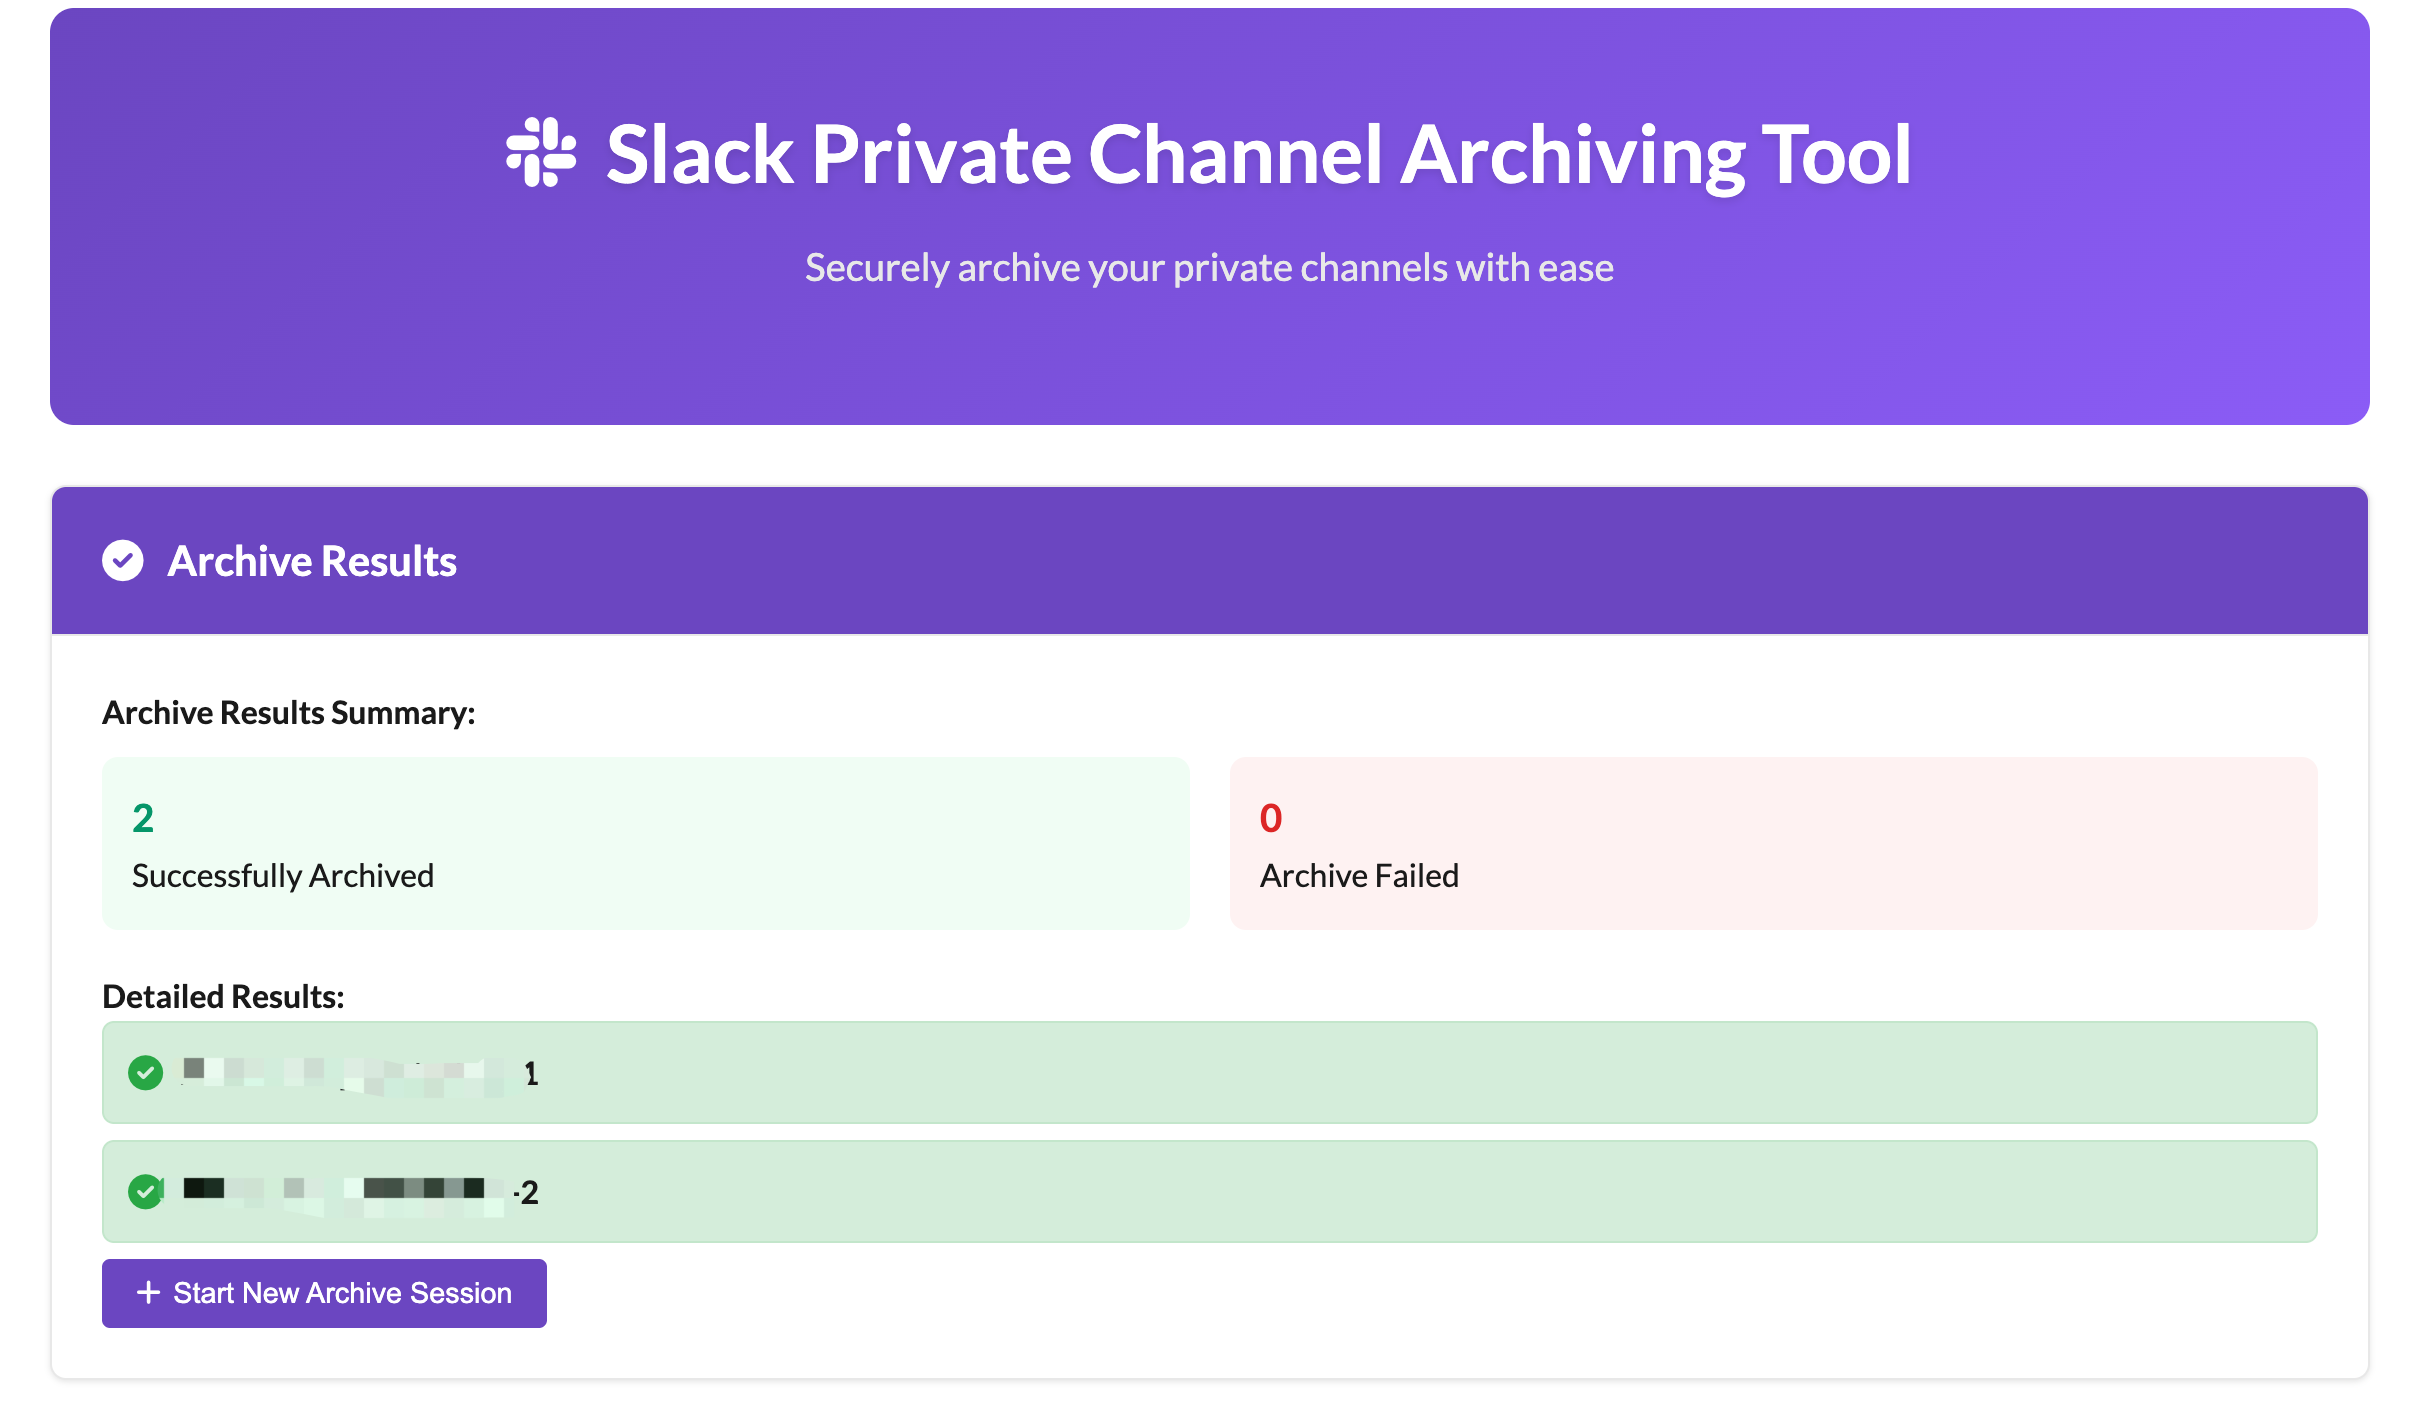
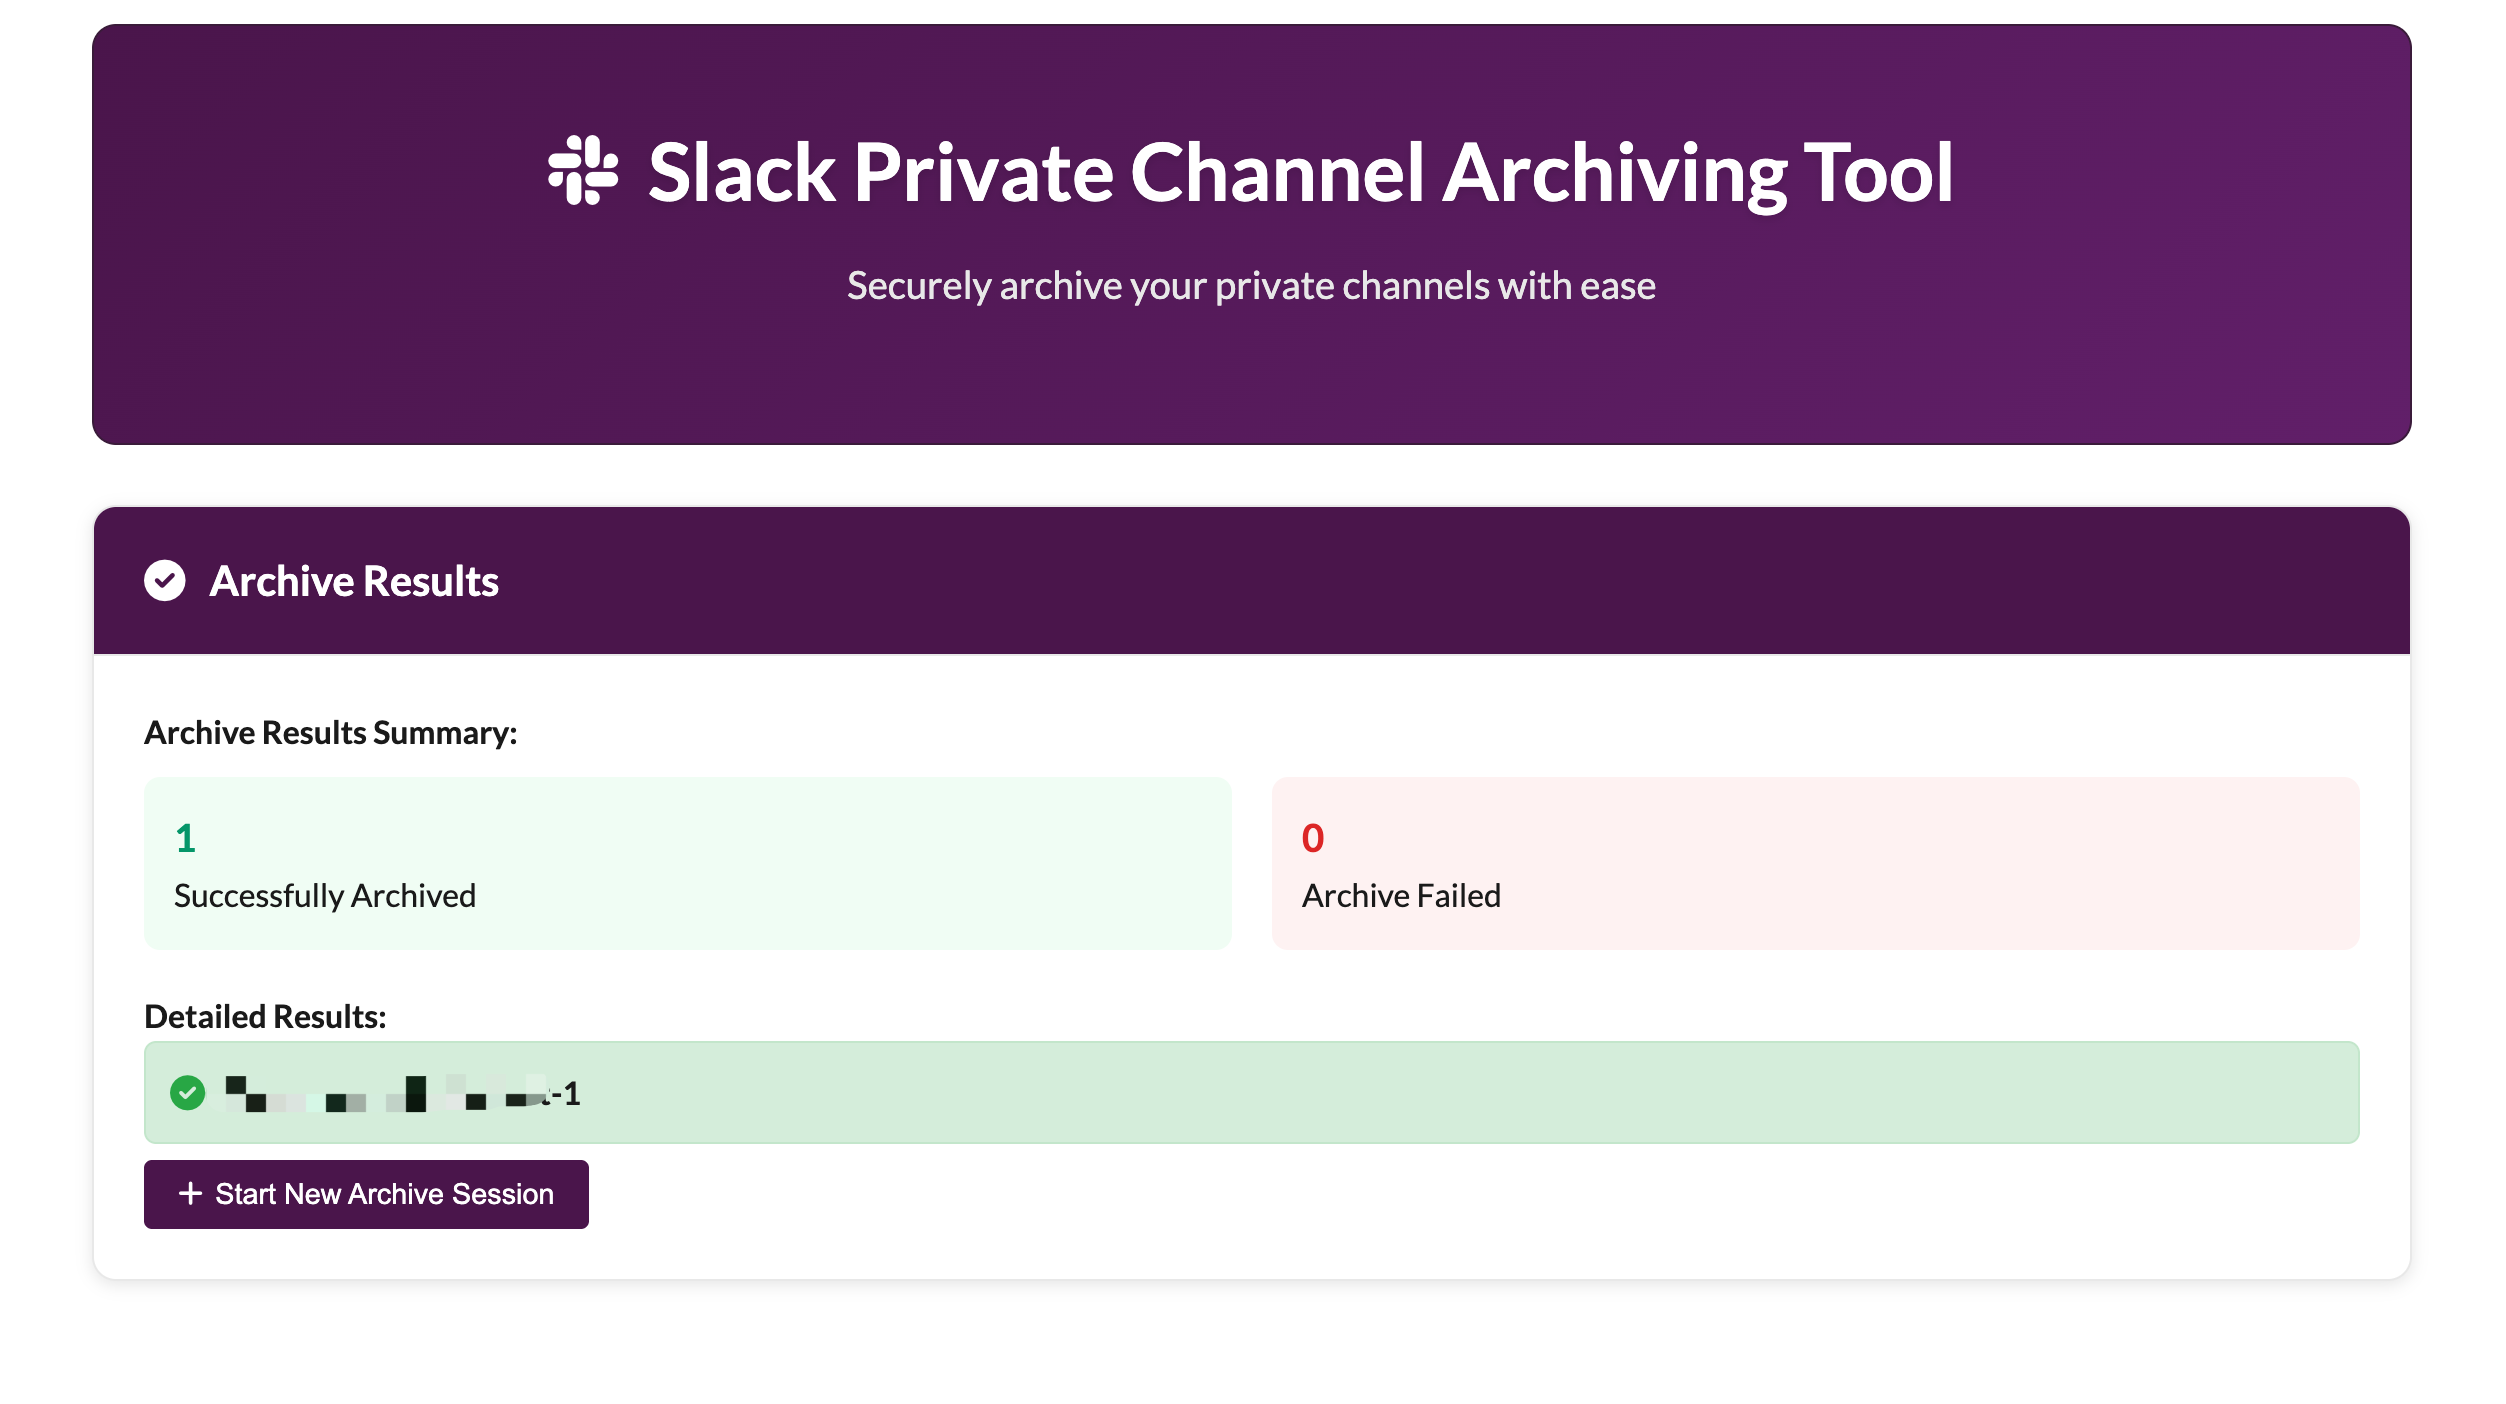
feat: 🎸 dark purple version

diff --git a/public/styles.css b/public/styles.css
@@ -7,7 +7,7 @@
 
 body {
     font-family: 'Lato', -apple-system, BlinkMacSystemFont, 'Segoe UI', Roboto, Oxygen, Ubuntu, Cantarell, sans-serif;
-    background: #ffffff;
+    background: #ffffff; /* 白色背景 */
     min-height: 100vh;
     color: #1a1a1a;
     line-height: 1.6;
@@ -23,11 +23,12 @@ body {
 .header {
     text-align: center;
     margin-bottom: 40px;
-    color: #1a1a1a;
-    background: linear-gradient(135deg, #6b46c1 0%, #8b5cf6 100%);
+    color: #ffffff;
+    background: linear-gradient(135deg, #4a154b 0%, #611f69 100%); /* Slack 品牌紫色渐变 */
     padding: 40px 20px;
     border-radius: 12px;
     margin-bottom: 30px;
+    border: 1px solid #3a1b3a;
 }
 
 .logo {
@@ -70,21 +71,21 @@ body {
 
 /* 卡片样式 - Slack 风格 */
 .card {
-    background: #ffffff;
+    background: #ffffff; /* 白色卡片背景 */
     border: 1px solid #e8e8e8;
-    border-radius: 8px;
-    box-shadow: 0 1px 3px rgba(0,0,0,0.1);
+    border-radius: 12px; /* Slack 风格的圆角 */
+    box-shadow: 0 2px 8px rgba(0,0,0,0.1);
     overflow: hidden;
     transition: transform 0.2s ease, box-shadow 0.2s ease;
 }
 
 .card:hover {
     transform: translateY(-2px);
-    box-shadow: 0 4px 12px rgba(0,0,0,0.15);
+    box-shadow: 0 6px 20px rgba(0,0,0,0.15);
 }
 
 .card-header {
-    background: #6b46c1;
+    background: #4a154b; /* Slack 品牌紫色 */
     color: white;
     padding: 20px 25px;
     display: flex;
@@ -107,9 +108,9 @@ body {
 }
 
 .permissions-info {
-    background: #f8f9fa;
+    background: #f8f9fa; /* 浅灰色背景 */
     border: 1px solid #e1e4e8;
-    border-radius: 6px;
+    border-radius: 8px; /* Slack 风格圆角 */
     padding: 1.2rem;
     margin-bottom: 1.5rem;
 }
@@ -136,10 +137,10 @@ body {
 }
 
 .permissions-list code {
-    background: #6b46c1;
+    background: #4a154b; /* Slack 品牌紫色 */
     color: white;
     padding: 0.25rem 0.5rem;
-    border-radius: 3px;
+    border-radius: 4px; /* Slack 风格圆角 */
     font-family: 'SF Mono', Monaco, 'Cascadia Code', 'Roboto Mono', Consolas, 'Courier New', monospace;
     font-size: 0.85rem;
     font-weight: 500;
@@ -153,7 +154,7 @@ body {
 }
 
 .info-section h3 {
-    color: #6b46c1;
+    color: #4a154b; /* Slack 品牌紫色 */
     margin-bottom: 0.8rem;
     display: flex;
     align-items: center;
@@ -185,8 +186,8 @@ body {
 .auth-action {
     text-align: center;
     padding: 1.5rem;
-    background: #f8f9fa;
-    border-radius: 6px;
+    background: #f8f9fa; /* 浅灰色背景 */
+    border-radius: 8px; /* Slack 风格圆角 */
     border: 1px solid #e1e4e8;
 }
 
@@ -263,14 +264,14 @@ body {
 }
 
 .btn-primary {
-    background: #6b46c1;
+    background: #4a154b; /* Slack 品牌紫色 */
     color: white;
-    border-color: #6b46c1;
+    border-color: #4a154b;
 }
 
 .btn-primary:hover {
-    background: #8b5cf6;
-    border-color: #8b5cf6;
+    background: #611f69; /* Slack 品牌紫色深色 */
+    border-color: #611f69;
 }
 
 .btn-secondary {
@@ -321,7 +322,7 @@ body {
 
 .loading i {
     font-size: 1.3rem;
-    color: #6b46c1;
+    color: #4a154b; /* Slack 品牌紫色 */
 }
 
 /* 频道列表 - Slack 风格 */
@@ -336,27 +337,27 @@ body {
     align-items: center;
     gap: 12px;
     padding: 16px;
-    background: #ffffff;
+    background: #ffffff; /* 白色背景 */
     border: 1px solid #e1e4e8;
-    border-radius: 6px;
+    border-radius: 8px; /* Slack 风格圆角 */
     transition: all 0.2s ease;
     cursor: pointer;
 }
 
 .channel-item:hover {
-    border-color: #6b46c1;
+    border-color: #4a154b; /* Slack 品牌紫色 */
     background: #f8f9fa;
 }
 
 .channel-item.selected {
-    border-color: #6b46c1;
+    border-color: #4a154b; /* Slack 品牌紫色 */
     background: #f0f4ff;
 }
 
 .channel-item input[type="checkbox"] {
     width: 18px;
     height: 18px;
-    accent-color: #6b46c1;
+    accent-color: #4a154b; /* Slack 品牌紫色 */
 }
 
 .channel-info {
@@ -402,14 +403,14 @@ body {
 .summary {
     background: #f0f4ff;
     border: 1px solid #c1d4f0;
-    border-radius: 6px;
+    border-radius: 8px; /* Slack 风格圆角 */
     padding: 12px;
     margin-top: 16px;
 }
 
 .summary p {
     font-weight: 500;
-    color: #6b46c1;
+    color: #4a154b; /* Slack 品牌紫色 */
     font-size: 0.9rem;
 }
 
@@ -417,7 +418,7 @@ body {
 .warning {
     background: #fff3cd;
     border: 1px solid #ffeaa7;
-    border-radius: 6px;
+    border-radius: 8px; /* Slack 风格圆角 */
     padding: 16px;
     margin-bottom: 16px;
     display: flex;
@@ -605,17 +606,17 @@ body {
 }
 
 ::-webkit-scrollbar-track {
-    background: #f1f1f1;
+    background: #f1f1f1; /* 浅灰色背景 */
     border-radius: 3px;
 }
 
 ::-webkit-scrollbar-thumb {
-    background: #c1c1c1;
+    background: #4a154b; /* Slack 品牌紫色 */
     border-radius: 3px;
 }
 
 ::-webkit-scrollbar-thumb:hover {
-    background: #a8a8a8;
+    background: #611f69; /* Slack 品牌紫色深色 */
 }
 
 /* 响应式设计补充 */

diff --git a/README_EN.md b/README_EN.md
@@ -34,6 +34,9 @@ Slack Private Channel Archive Tool helps users securely archive Slack private ch
 ## Screenshots
 
 ### Main Page
+![Main Page Third Version](screenshots/index_third_version.png)
+**Current Version** - Features Slack brand color scheme with white background and purple gradient header.
+
 ![Main Page Second Version](screenshots/index_second_version.png)
 ![Main Page First Version](screenshots/index_first_version.png)
 The main page of the application, providing Slack authorization entry and feature introduction.
@@ -43,7 +46,7 @@ The main page of the application, providing Slack authorization entry and featur
 Displays all archivable private channels with batch selection and detailed channel information.
 
 ### Confirm Archive
-![Confirm Archive](screenshots/comfirm_archive.png)
+![Confirm Archive](screenshots/confirm_archive.png)
 Confirmation page before archive operation, showing selected channel list for final user confirmation.
 
 ### Archive Results

diff --git a/README.md b/README.md
@@ -34,6 +34,9 @@ Slack Private Channel 归档工具，帮助用户安全地归档 Slack 私有频
 ## 页面展示
 
 ### 主页面
+![主页面第三版](screenshots/index_third_version.png)
+**当前版本** - 采用Slack品牌配色方案，白色背景配合紫色渐变头部。
+
 ![主页面第二版](screenshots/index_second_version.png)
 ![主页面第一版](screenshots/index_first_version.png)
 应用的主页面，提供Slack授权入口和功能介绍。
@@ -43,7 +46,7 @@ Slack Private Channel 归档工具，帮助用户安全地归档 Slack 私有频
 显示所有可归档的私有频道，支持批量选择和查看频道详细信息。
 
 ### 确认归档
-![确认归档](screenshots/comfirm_archive.png)
+![确认归档](screenshots/confirm_archive.png)
 归档操作前的确认页面，显示选中的频道列表供用户最终确认。
 
 ### 归档结果
